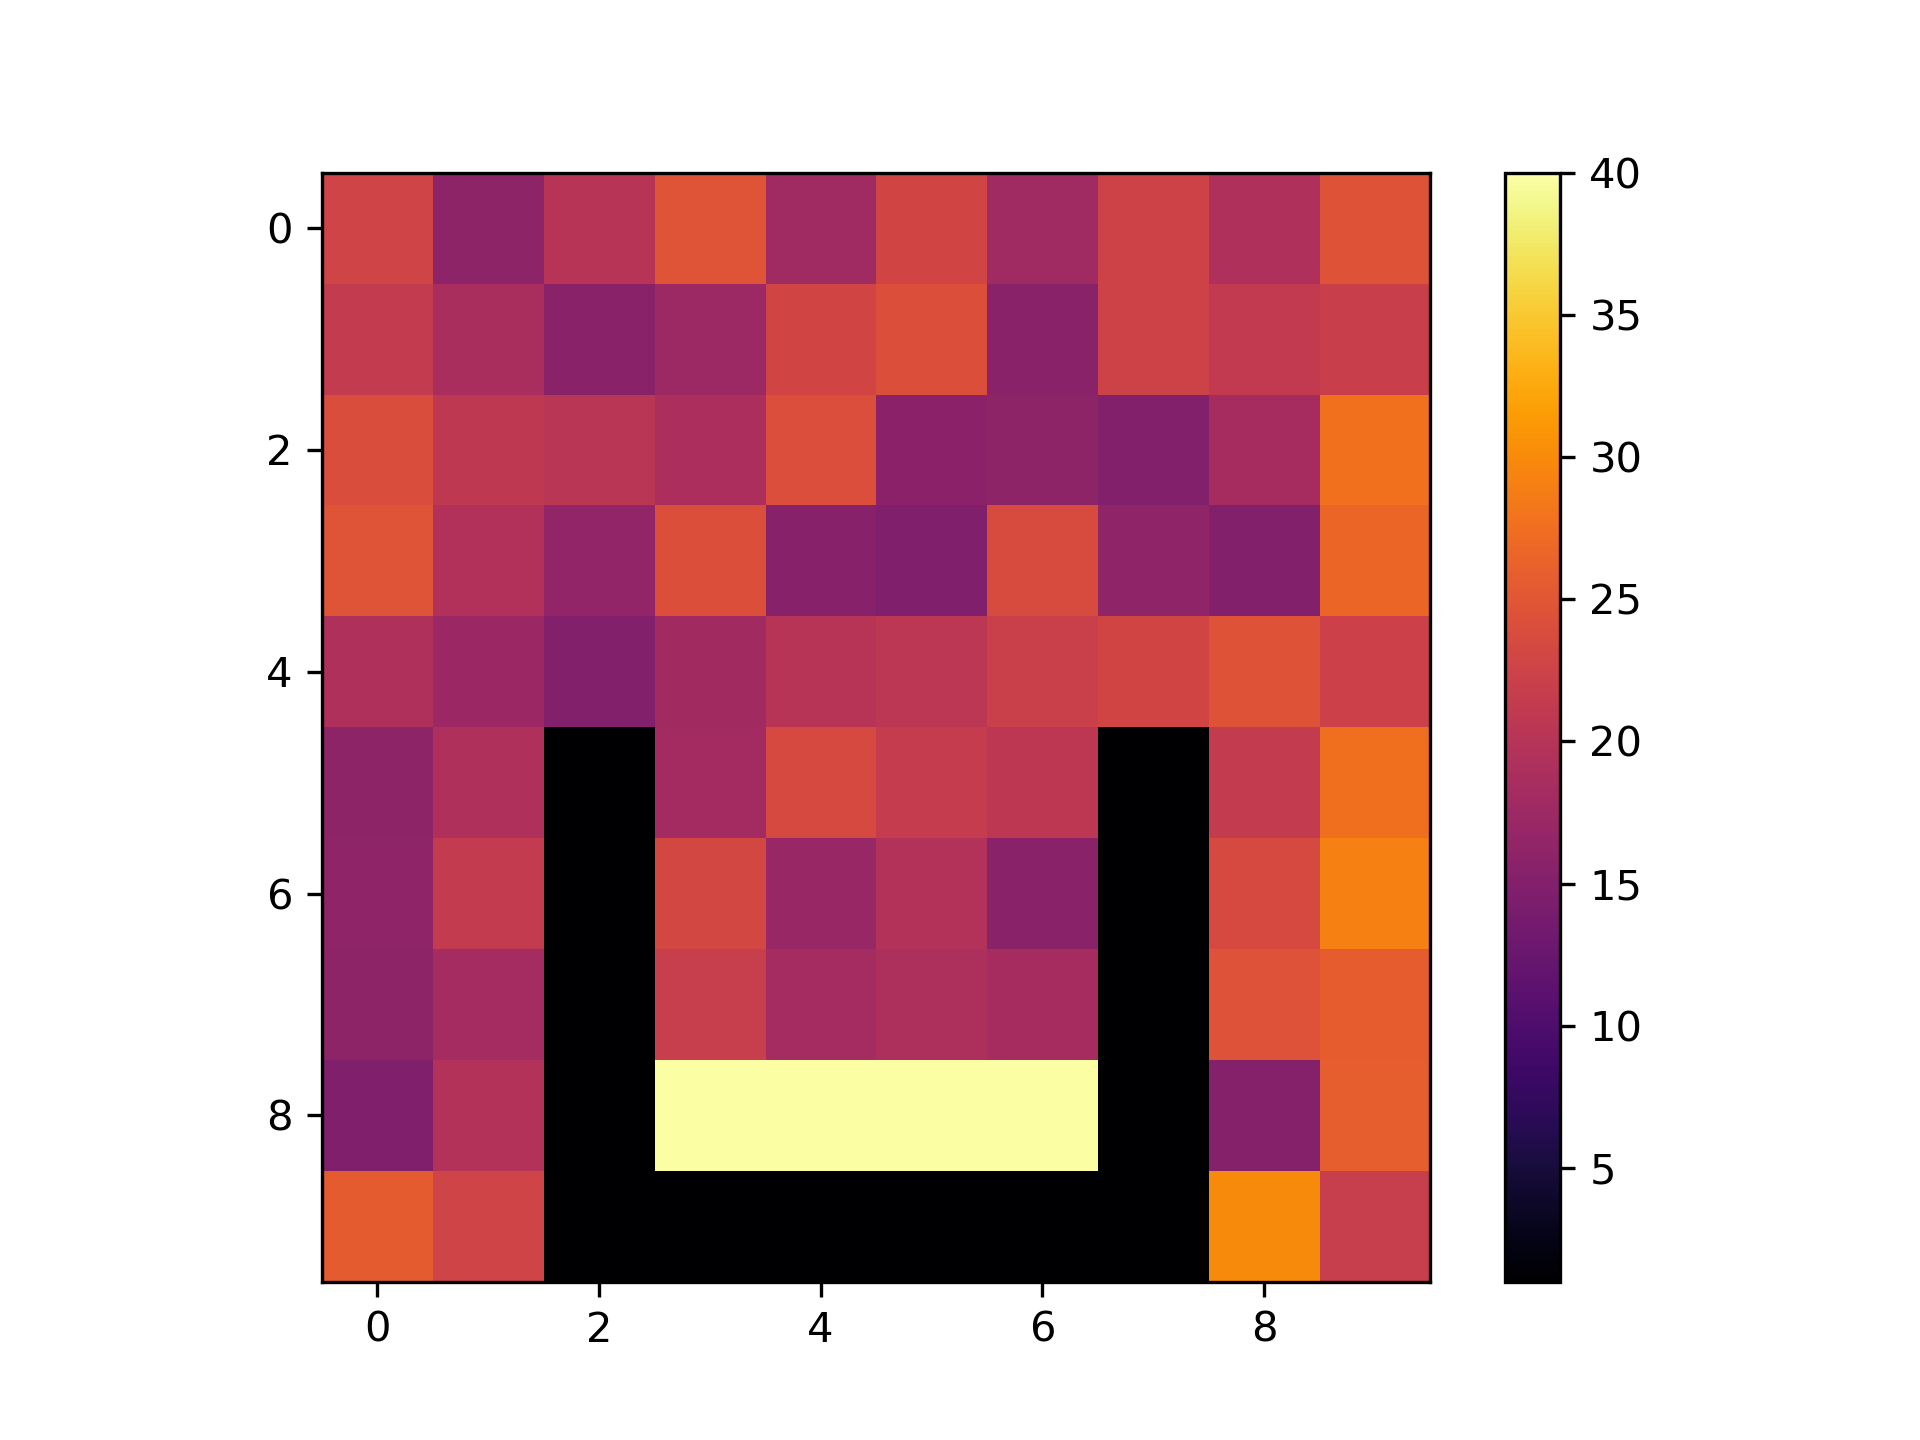
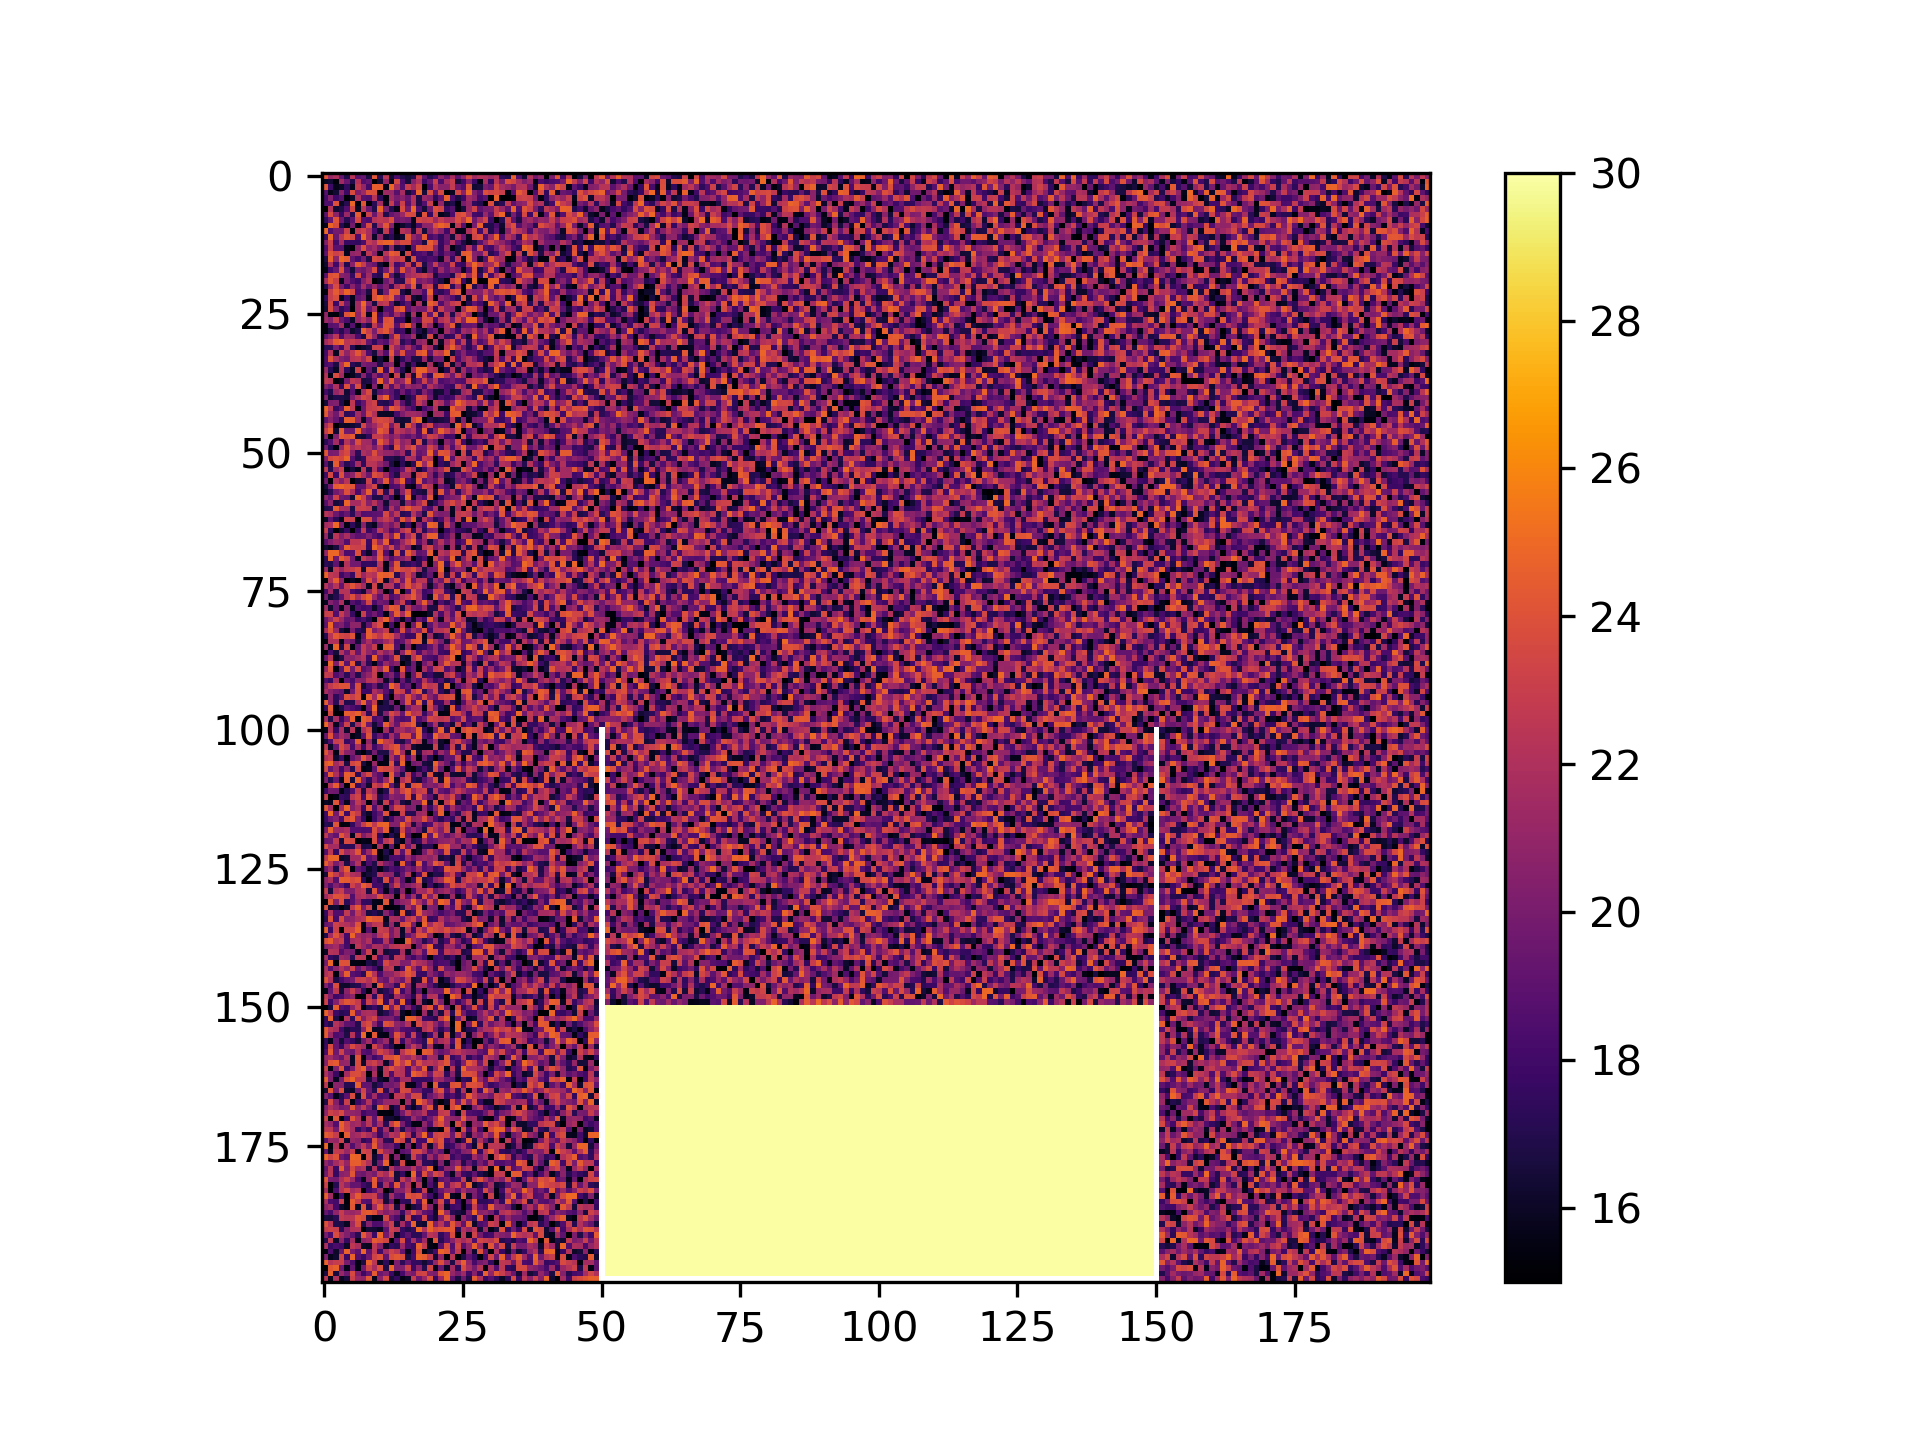
some steps back

diff --git a/physics.py b/physics.py
@@ -142,39 +142,43 @@ def diffusion(in_raster, resX, resY, diffusion_index, container_temp):
     neighbouring_cells = [(-1,-1),(0,-1),(1,-1),(-1,0),(1,0),(-1,1),(0,1),(1,1)]
     x = 0
     try:
-        while x < resX-1:
+        while x < resX:
 
             y = 0
 
-            while y < resY-1:
+            while y < resY:
 
                 pixel = in_raster[x,y]
-                #print("assessing pixel at ({},{})".format(x,y))
+
 
                 neighbour_values = []
 
                 for neighbour in neighbouring_cells:
                     neighbour_values.append(in_raster[neighbour])
+
                 #print("neigbour values: {}".format(neighbour_values))
 
-                if pixel < any(neighbour_values):
+                if pixel < max(neighbour_values):
                     highest = max(neighbour_values)
                     index = neighbour_values.index(highest)
                     diff = highest*diffusion_index
-                    temp_raster[x,y] += diff
+                    pixel += diff
                     donator = in_raster[x+(neighbouring_cells[index][0]), y+(neighbouring_cells[index][1])]
                     donator -= diff
+
 
                 elif pixel == all(neighbour_values):
                     pass
 
-                elif pixel > any(neighbour_values):
+                elif pixel > min(neighbour_values):
                     lowest = min(neighbour_values)
                     index = neighbour_values.index(lowest)
                     diff = pixel * diffusion_index
-                    benefactor = temp_raster[x + (neighbouring_cells[index][0]), y + (neighbouring_cells[index][1])]
+                    benefactor = in_raster[x + (neighbouring_cells[index][0]), y + (neighbouring_cells[index][1])]
                     benefactor += diff
-                    in_raster[x, y] = pixel - diff
+                    pixel -= diff
+                else:
+                    pass
 
                 y+=1
 
@@ -186,8 +190,7 @@ def diffusion(in_raster, resX, resY, diffusion_index, container_temp):
         print("ERROR: probably np array index out of bounds")
         pass
 
-    temp_raster += in_raster
-    return temp_raster
+    return in_raster
 
 def gravity():
     """introduces gravity for liquid in container"""

diff --git a/visualizer.py b/visualizer.py
@@ -12,17 +12,17 @@ from convectionModel.physics import *
 
 
 # raster size and timesteps
-resX = 10
+resX = 200
 resY = resX
 dpi = 300
 timesteps = 5
-container_temp = 1
+container_temp = 'nan'
 
 # fill temperature and height of pre-filled liquid
 pre_fill = True
-fill_temp = 40
+fill_temp = 30
 filling_height = 0.75
-diffusion_index = 0.1
+diffusion_index = 0.5
 
 # set up list to convert output to gif
 out_rasters = []
